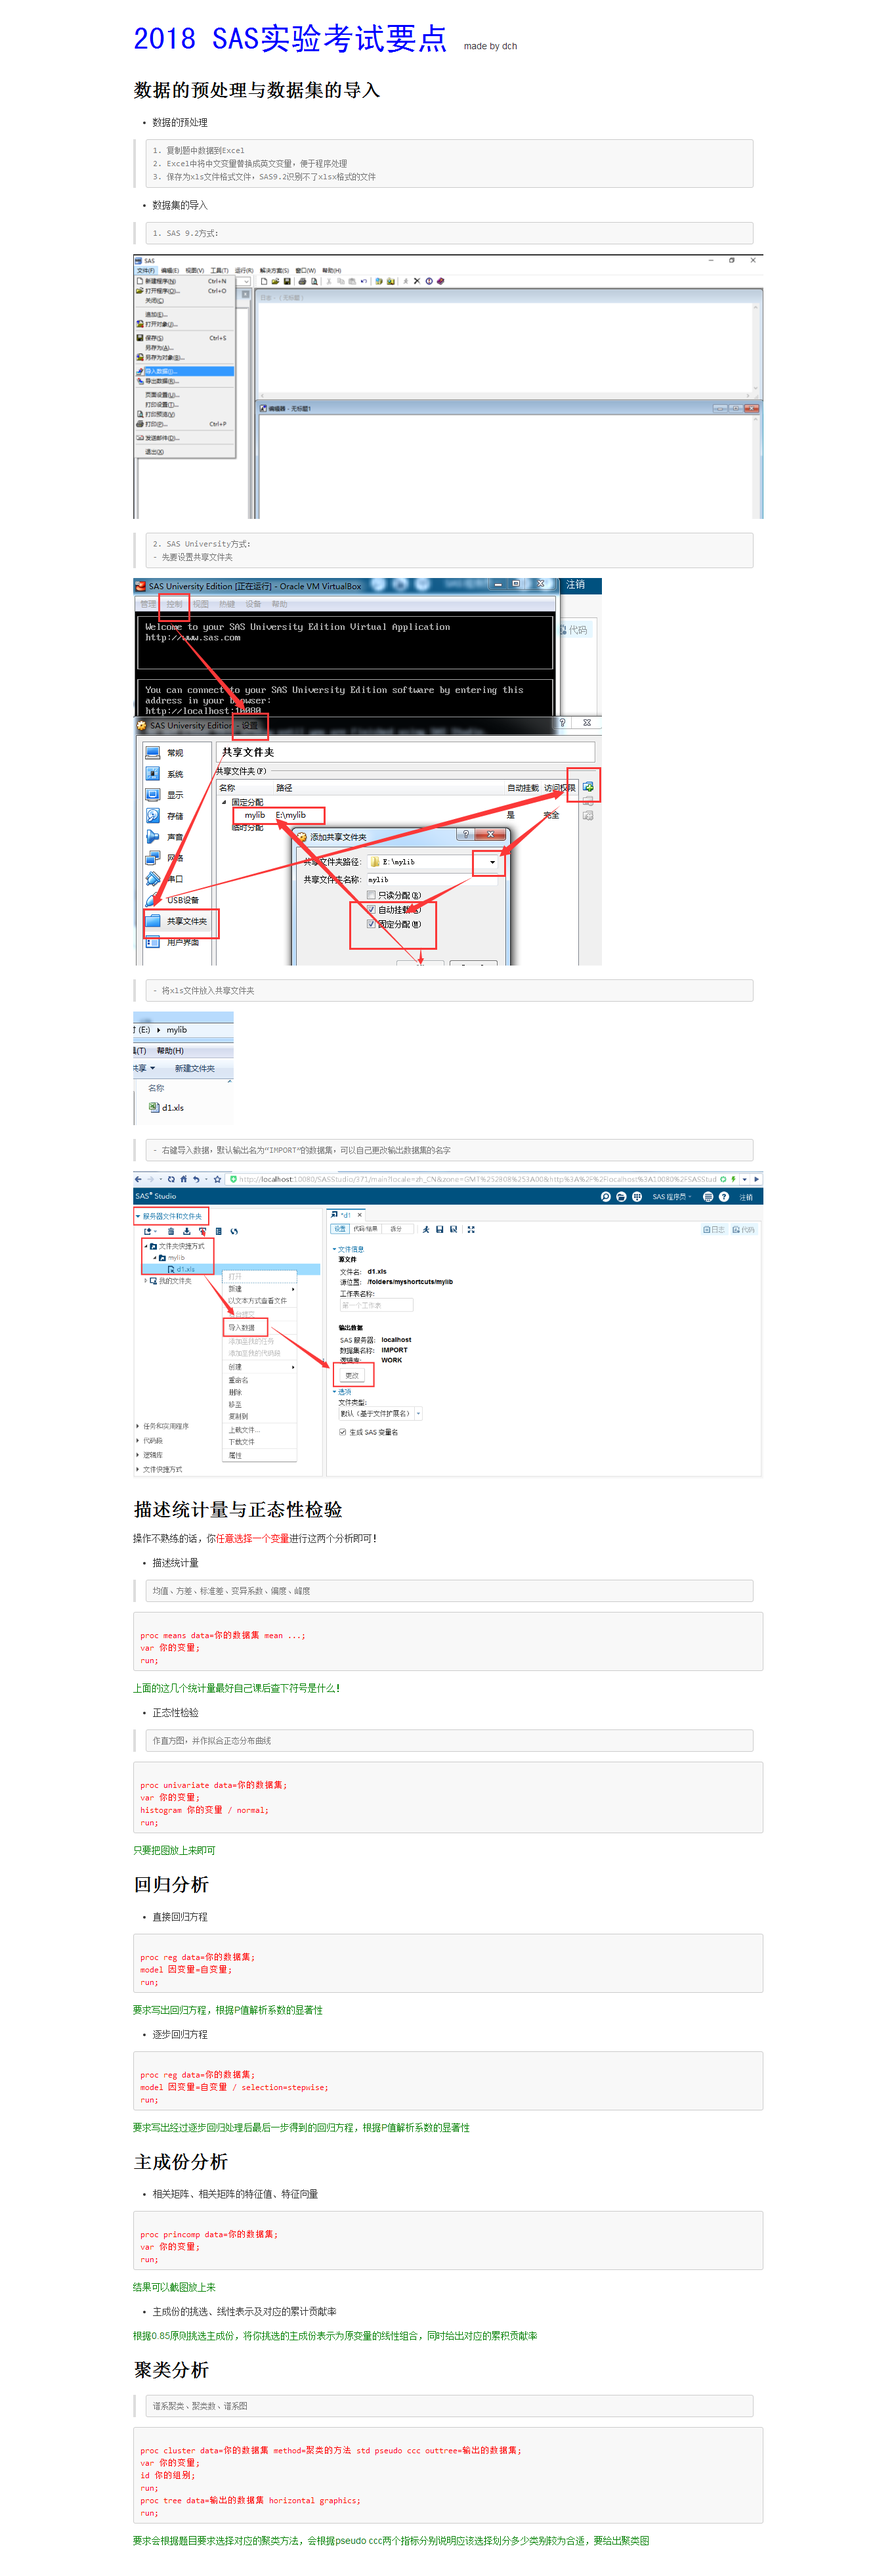
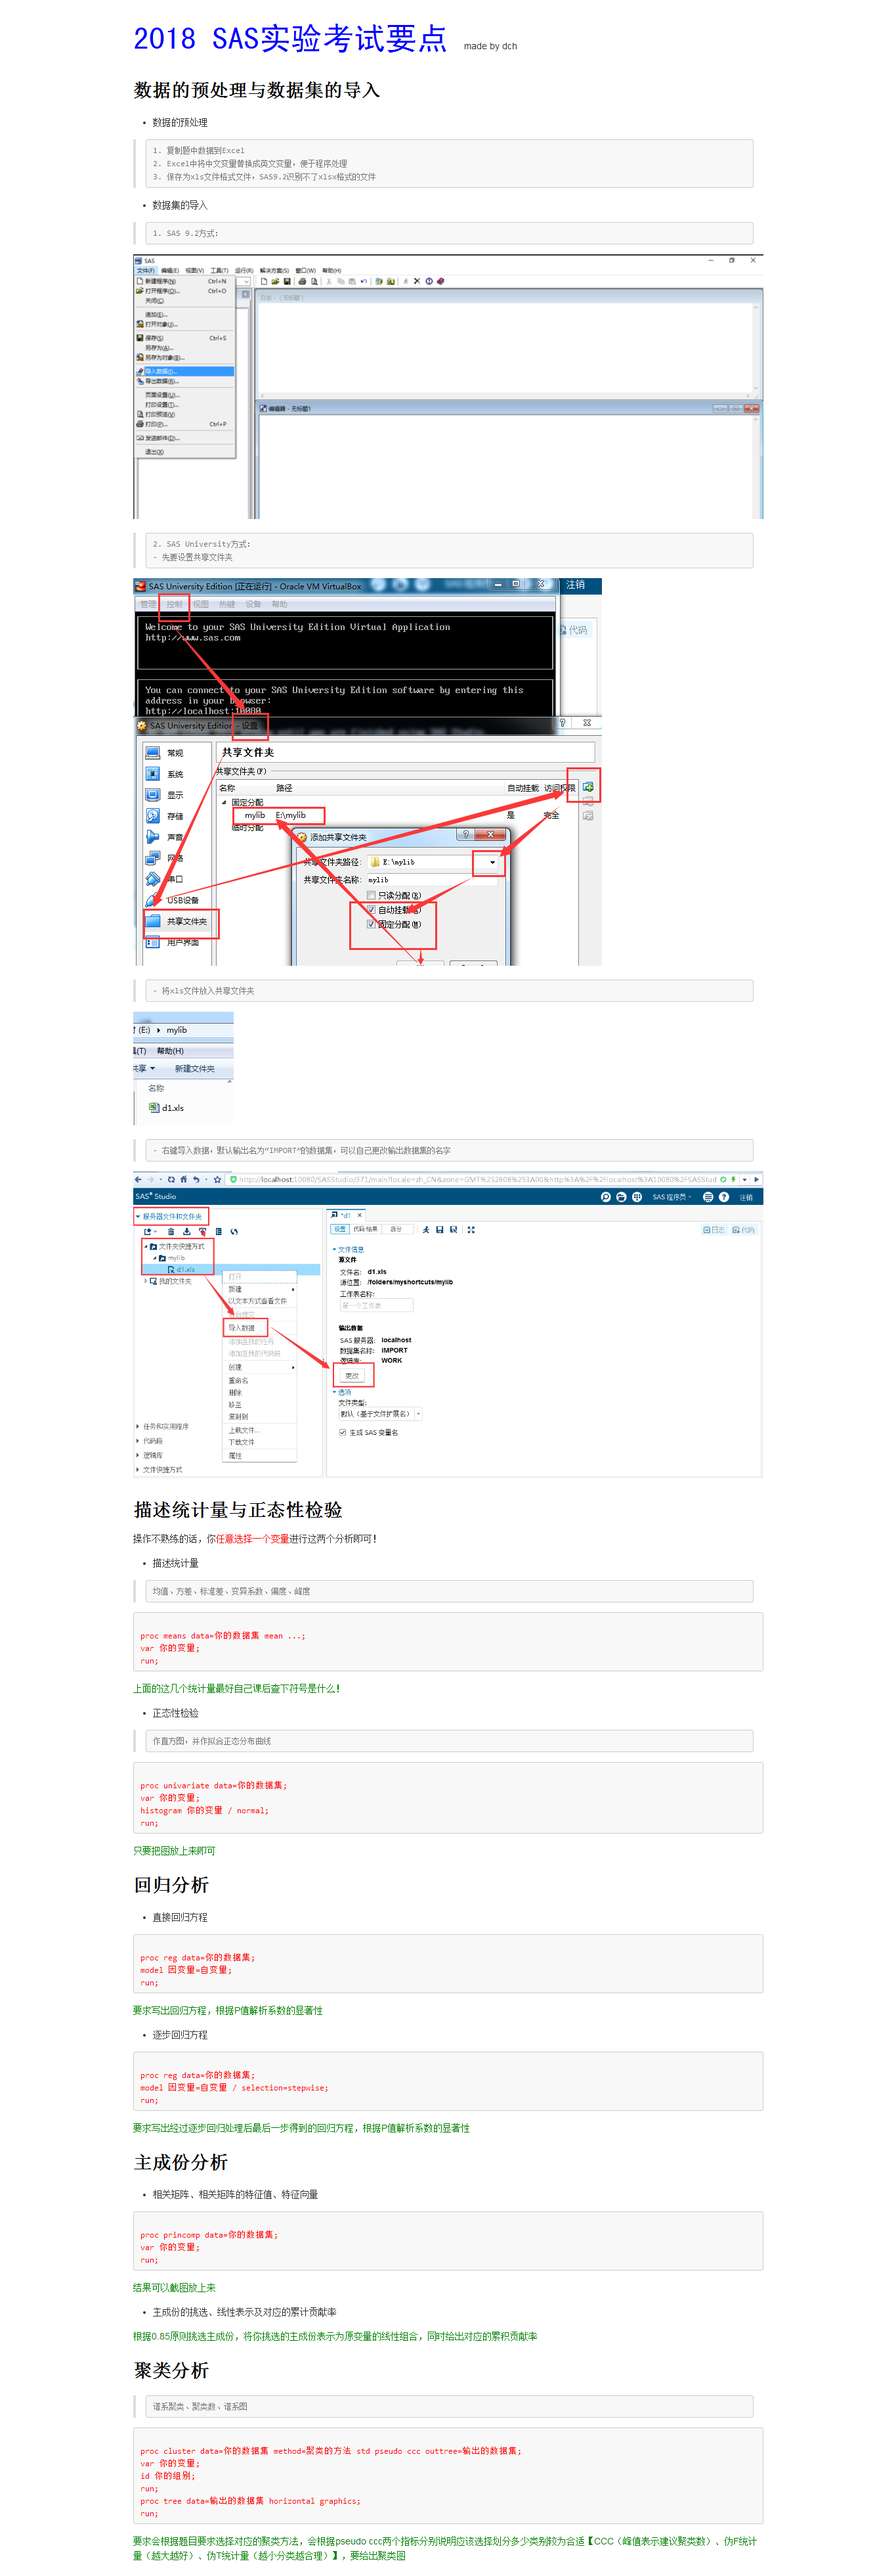
add

diff --git a/README.html b/README.html
@@ -426,7 +426,7 @@ proc tree data=输出的数据集 horizontal graphics;
 run;
 </font></pre>
 <p><font color="green">
-要求会根据题目要求选择对应的聚类方法，会根据pseudo ccc两个指标分别说明应该选择划分多少类别较为合适，要给出聚类图
+要求会根据题目要求选择对应的聚类方法，会根据pseudo ccc两个指标分别说明应该选择划分多少类别较为合适【CCC（峰值表示建议聚类数）、伪F统计量（越大越好）、伪T统计量（越小分类越合理）】，要给出聚类图
 </font></p>
 
 
